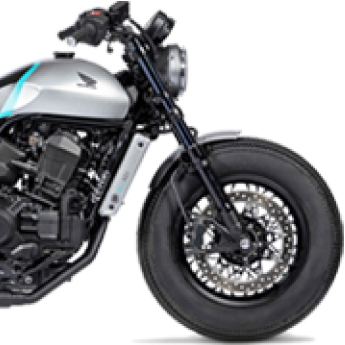
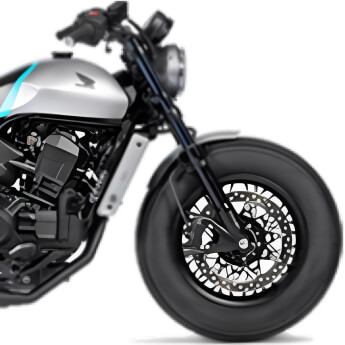
Aktualizace klokocky (obrazky)

diff --git a/pages/pripadove-studie/motosalon-klokocka.vue b/pages/pripadove-studie/motosalon-klokocka.vue
@@ -353,7 +353,7 @@
 					</p>
 				</div>
 			</div>
-			<div class="intro__flex-container">
+			<div class="intro__flex-container intro__flex-container--custom-klokocka">
 				<div class="intro__flex-item">
 					<h3>33+</h3>
 					<p>let na trhu</p>
@@ -823,6 +823,32 @@
 	$color-client-review-text: #222e27;
 	$color-client-review-name: #bd2d3b;
 	$color-client-review-marks: #6b6d6d;
+
+  .slider__image--custom-klokocka {
+    aspect-ratio: 1 / 1;
+    img {
+      background-color: $color-white;
+      position: relative;
+      left: 100%;
+      transform: translateX(-100%);
+      max-width: unset;
+      max-height: 100%;
+      width: auto;
+    }
+    @media (max-width: $width-mobile) {
+      aspect-ratio: unset;
+      position: unset;
+      left: unset;
+      transform: unset;
+
+      width: 100%;
+      min-width: unset;
+      max-width: unset;
+      img {
+        width: 100%;
+      }
+    }
+  }
 
 	:deep(.swiper-button-next),
 	:deep(.swiper-button-prev) {
